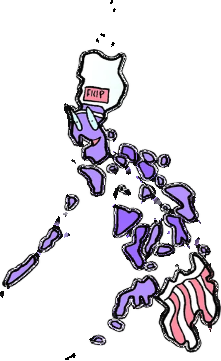
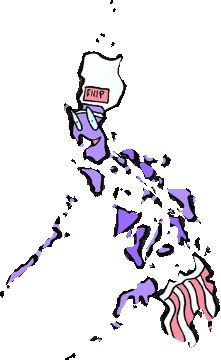
Improve globe island fidelity with selective fallback warps

diff --git a/tools/build_globe_global_warps.py b/tools/build_globe_global_warps.py
@@ -56,6 +56,9 @@ TINY_ISLAND_MIN_COVERAGE = 0.72
 TINY_ISLAND_REGIONS = {"oceanien", "vastindien"}
 TINY_FALLBACK_MAX_TARGET_AREA_PX = 2600
 GLOBAL_TINY_FALLBACK_MAX_TARGET_AREA_PX = 260
+SELECTIVE_ISLAND_FALLBACK_MAX_TARGET_AREA_PX = 26000
+COMPONENT_FALLBACK_MAX_TARGET_AREA_PX = 22000
+COMPONENT_FALLBACK_MIN_COMPONENTS = 4
 TINY_FALLBACK_MIN_SCORE_GAIN = 0.008
 
 # Region-specific tuning where one global default is not sufficient.
@@ -145,6 +148,15 @@ RELAXED_CLIP_FEATURE_KEYS = {
     "NRU",
     "VCT",
     "WSM",
+}
+
+# Medium-size island countries where per-country inverse rendering often
+# preserves hand-drawn structure better than a pure shared-sheet split.
+SELECTIVE_ISLAND_FALLBACK_FEATURE_KEYS = {
+    "CUB",
+    "CYP",
+    "JPN",
+    "PHL",
 }
 
 AGGRESSIVE_RELAX_FEATURE_KEYS = {
@@ -942,14 +954,30 @@ def tiny_quality_score(alpha: np.ndarray, mask_u8: np.ndarray) -> float:
     return float(iou + 0.10 * cov)
 
 
+def mask_component_count(mask_u8: np.ndarray) -> int:
+    bin_u8 = (mask_u8 > 0).astype(np.uint8)
+    n_labels, _ = cv2.connectedComponents(bin_u8, connectivity=8)
+    return max(0, int(n_labels) - 1)
+
+
 def should_try_tiny_fallback(job: RegionCountryJob) -> bool:
     region = str(job.source_region).lower()
+    feature_key = str(job.country.get("featureKey", ""))
     area = int(job.target_area)
     if area <= GLOBAL_TINY_FALLBACK_MAX_TARGET_AREA_PX:
         return True
+    if (
+        feature_key in SELECTIVE_ISLAND_FALLBACK_FEATURE_KEYS
+        and area <= SELECTIVE_ISLAND_FALLBACK_MAX_TARGET_AREA_PX
+    ):
+        return True
+    if area <= COMPONENT_FALLBACK_MAX_TARGET_AREA_PX:
+        comp_count = mask_component_count((job.target_shape.mask > 0).astype(np.uint8))
+        if comp_count >= COMPONENT_FALLBACK_MIN_COMPONENTS:
+            return True
     if region in TINY_ISLAND_REGIONS and area <= TINY_FALLBACK_MAX_TARGET_AREA_PX:
         return True
-    if str(job.country.get("featureKey", "")) in RELAXED_CLIP_FEATURE_KEYS and area <= 3200:
+    if feature_key in RELAXED_CLIP_FEATURE_KEYS and area <= 3200:
         return True
     return False
 
